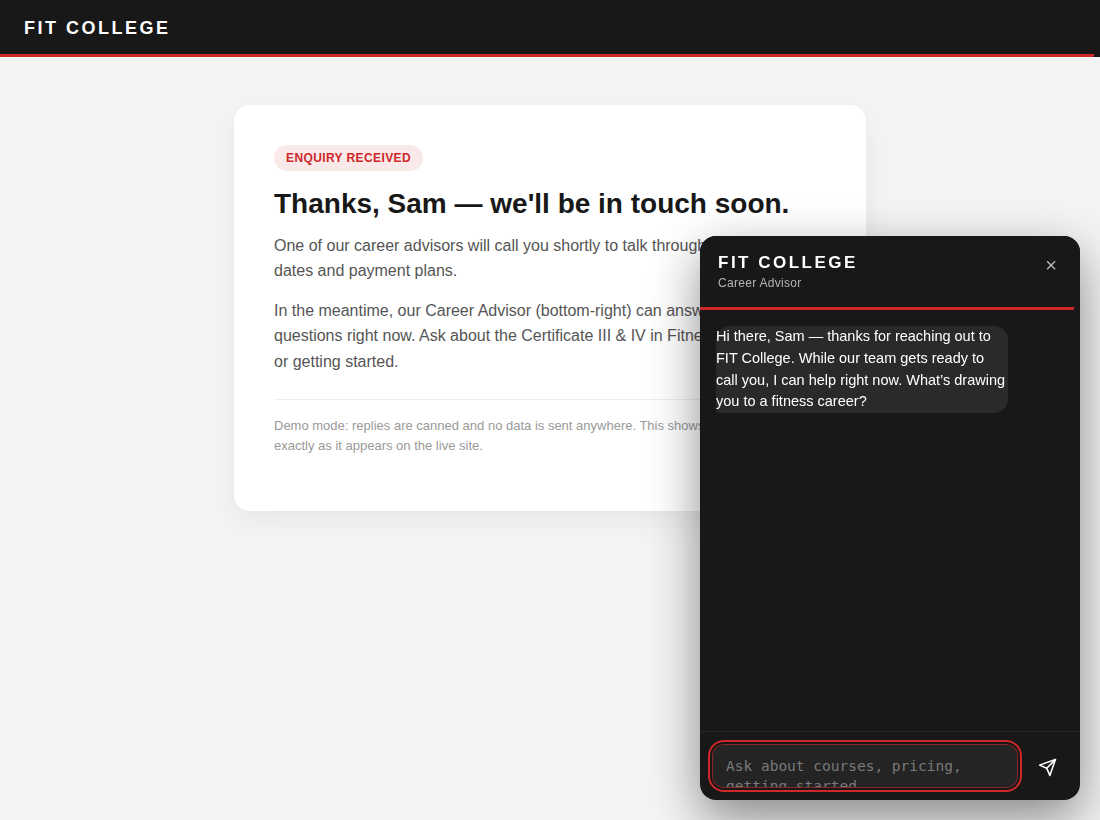
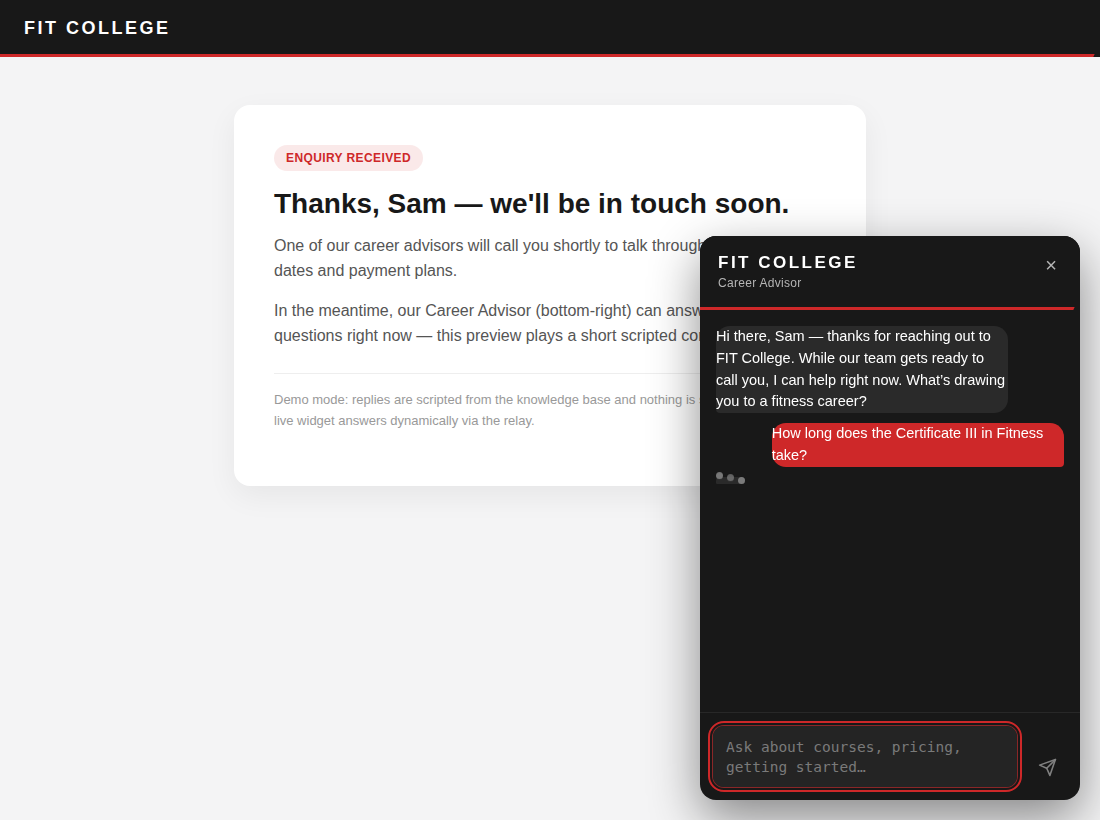
Demo: auto-play a KB-grounded scripted conversation
- widget.js: demo mode can take custom replies via window.FITC_DEMO and offers
  booking after the last scripted reply (generic; production unaffected).
- demo page: scripts a career-changer conversation authored from kb.md (Cert III
  durations, online/self-paced study, Cert III+IV/FIT Elite, interest-free plans,
  pricing-to-advisor, booking) and auto-plays it.
- Re-captured screenshots.

Claude-Session: https://claude.ai/code/session_01JYx1yEGXLQCNzjT4bGQhnr

diff --git a/demo/index.html b/demo/index.html
@@ -31,12 +31,16 @@
       <p>One of our career advisors will call you shortly to talk through courses,
          start dates and payment plans.</p>
       <p>In the meantime, our Career Advisor (bottom-right) can answer your
-         questions right now. Ask about the Certificate III &amp; IV in Fitness,
-         study modes, or getting started.</p>
-      <p class="note">Demo mode: replies are canned and no data is sent anywhere.
-         This shows the widget UX exactly as it appears on the live site.</p>
+         questions right now — this preview plays a short scripted conversation.</p>
+      <p class="note">Demo mode: replies are scripted from the knowledge base and
+         nothing is sent anywhere. The live widget answers dynamically via the relay.</p>
     </div>
   </div>
+
+  <!-- Scripted, KB-grounded canned replies for the demo. -->
+  <script>
+    window.FITC_DEMO = ["Great question, Sam! You've got up to 12 months, but most online students wrap it up in around 6 — and on campus full-time it's about 8 weeks. Are you leaning towards online, or a campus near you?","That's a really common switch, and it fits well around a full-time job — the online study is self-paced, so you work through it in the gaps and finish on your own timeline. Are you thinking gym instructor to start, or heading straight for personal training?","Nice goal! To train clients as a PT you'd do your Cert III then Cert IV — lots of people bundle both as our FIT Elite package, with interest-free payment plans (and there's an EOFY sale on right now). Exact pricing depends on your path and study mode, so the best next step is a quick chat with an advisor who can give you real numbers and a plan — want me to set that up?"];
+  </script>
 
   <!-- FIT College Career Advisor widget, inlined in demo mode -->
   <script data-demo="true"
@@ -266,7 +270,9 @@
   }
 
   // ---------- Demo mode ----------
-  var demoLines = [
+  // Optional: a page can supply its own canned replies via window.FITC_DEMO
+  // (array of strings) to preview real content. Falls back to generic lines.
+  var demoLines = (window.FITC_DEMO && window.FITC_DEMO.length) ? window.FITC_DEMO : [
     'Great question! Our Certificate III & IV in Fitness is the most popular path \u2014 it qualifies you to work as a personal trainer. Are you looking to start fresh, or are you already working in the industry?',
     'That makes sense. It\u2019s self-paced online for the theory, with practical sessions you can fit around your schedule. What\u2019s most important to you \u2014 cost, flexibility, or how quickly you can finish?'
   ];
@@ -274,7 +280,7 @@
     var i = Math.min(messages.filter(function (m) { return m.role === 'assistant'; }).length, demoLines.length - 1);
     setTimeout(function () {
       var userTurns = messages.filter(function (m) { return m.role === 'user'; }).length;
-      reply(demoLines[i], userTurns >= 2);
+      reply(demoLines[i], userTurns >= demoLines.length);  // offer booking after the last scripted reply
     }, 800);
   }
 
@@ -312,6 +318,26 @@
   if (cfg.autoOpen > 0) setTimeout(open, cfg.autoOpen);
 })();
 
+  </script>
+
+  <!-- Auto-play: type each prompt and send once the widget is idle. -->
+  <script>
+    (function () {
+      var prompts = ["How long does the Certificate III in Fitness take?","Online — I'm working full-time and want to switch careers.","I want to become a personal trainer eventually. What does it cost?"];
+      var i = 0;
+      function step() {
+        if (i >= prompts.length) return;
+        var input = document.getElementById('fitc-input');
+        var send = document.getElementById('fitc-send');
+        if (!input || !send || send.disabled) { setTimeout(step, 300); return; }
+        input.value = prompts[i];
+        input.dispatchEvent(new Event('input', { bubbles: true }));
+        send.click();
+        i++;
+        setTimeout(step, 1700);
+      }
+      setTimeout(step, 1500);  // let the panel auto-open and greet first
+    })();
   </script>
 </body>
 </html>

diff --git a/widget.js b/widget.js
@@ -221,7 +221,9 @@
   }
 
   // ---------- Demo mode ----------
-  var demoLines = [
+  // Optional: a page can supply its own canned replies via window.FITC_DEMO
+  // (array of strings) to preview real content. Falls back to generic lines.
+  var demoLines = (window.FITC_DEMO && window.FITC_DEMO.length) ? window.FITC_DEMO : [
     'Great question! Our Certificate III & IV in Fitness is the most popular path \u2014 it qualifies you to work as a personal trainer. Are you looking to start fresh, or are you already working in the industry?',
     'That makes sense. It\u2019s self-paced online for the theory, with practical sessions you can fit around your schedule. What\u2019s most important to you \u2014 cost, flexibility, or how quickly you can finish?'
   ];
@@ -229,7 +231,7 @@
     var i = Math.min(messages.filter(function (m) { return m.role === 'assistant'; }).length, demoLines.length - 1);
     setTimeout(function () {
       var userTurns = messages.filter(function (m) { return m.role === 'user'; }).length;
-      reply(demoLines[i], userTurns >= 2);
+      reply(demoLines[i], userTurns >= demoLines.length);  // offer booking after the last scripted reply
     }, 800);
   }
 
